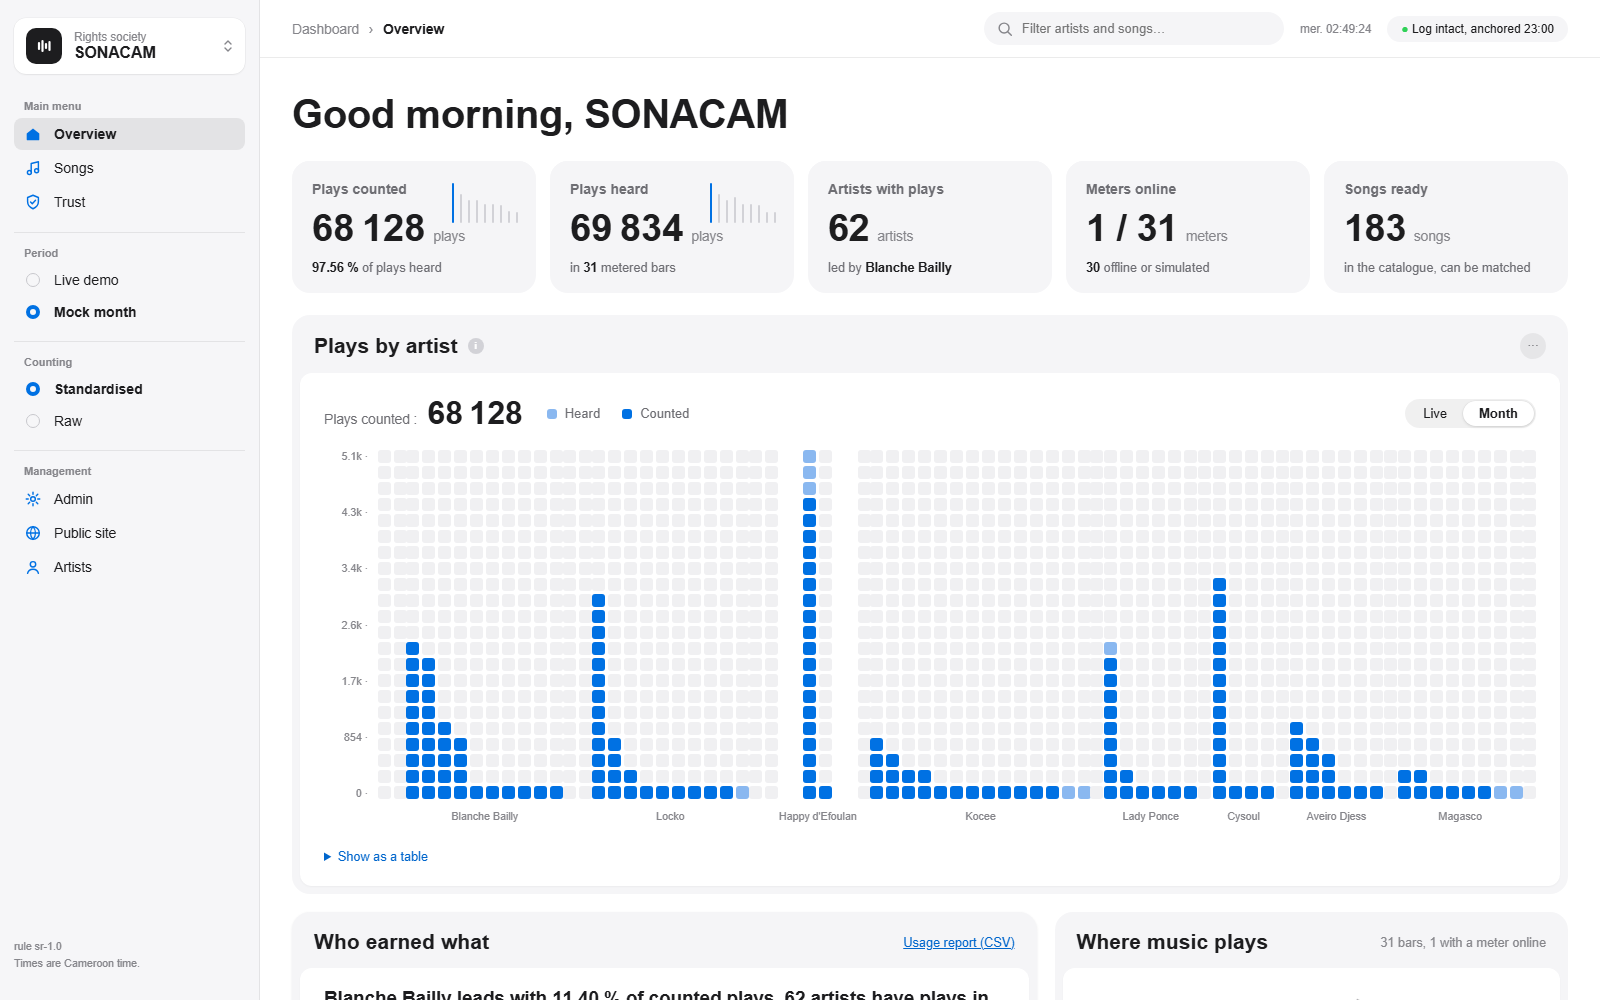
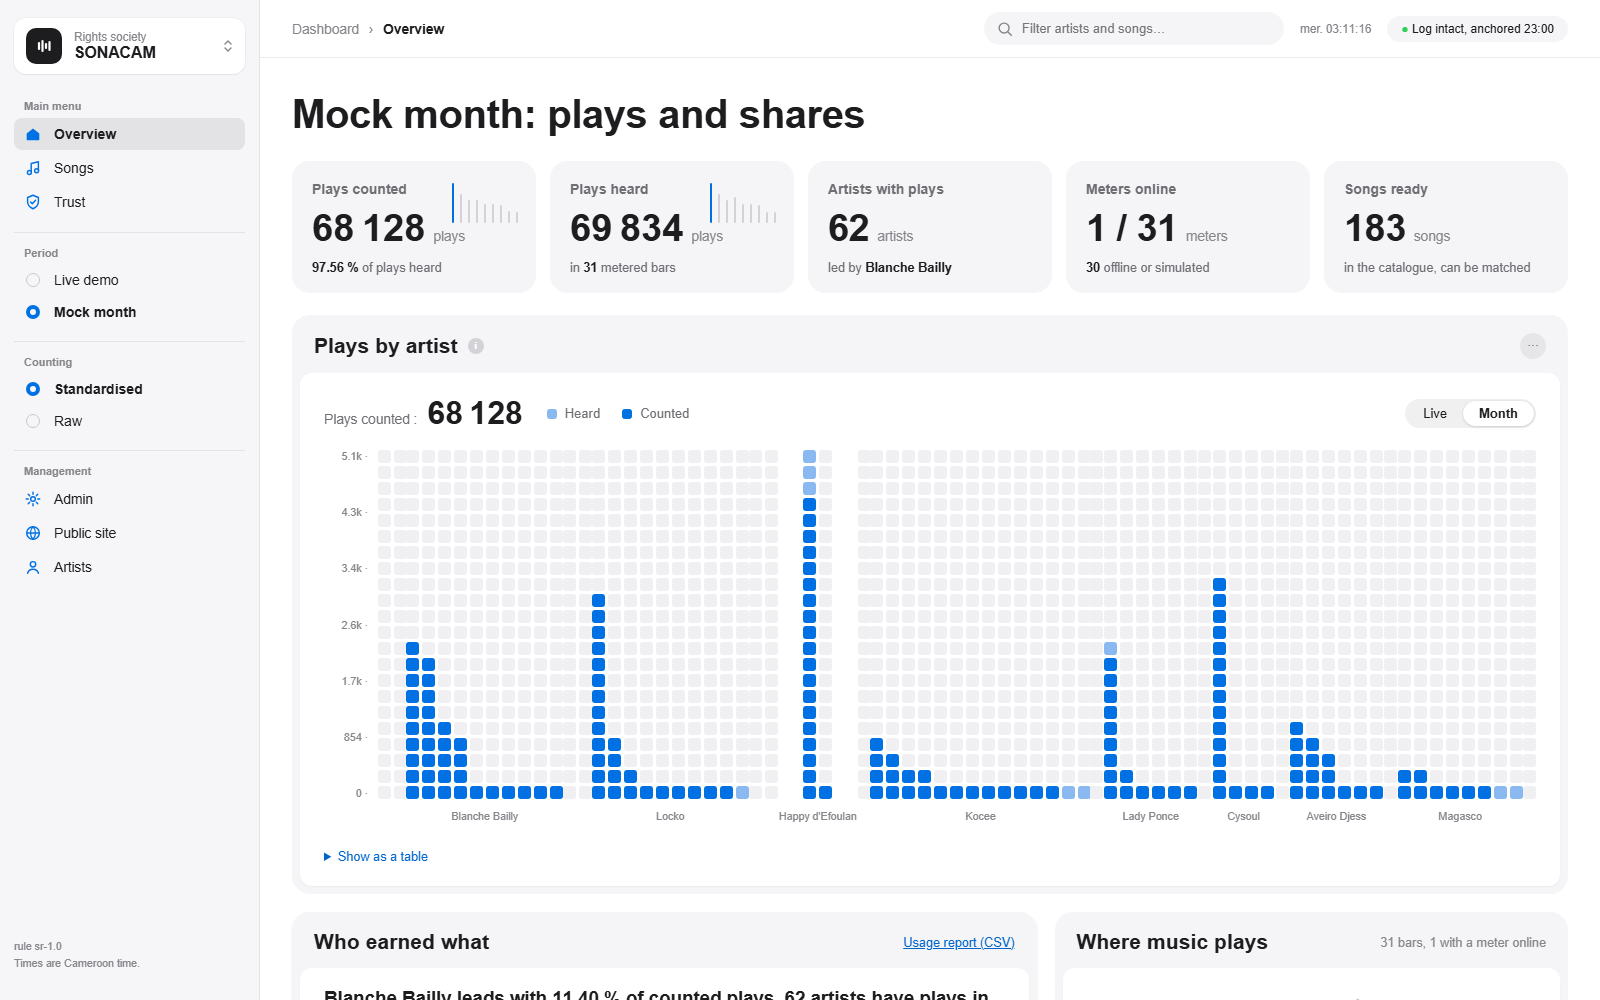
[B-WEB] Dashboard title follows the period instead of a greeting; duplicate Numbers link removed; hero screenshot retaken (R-026)

Changed region(s): [[0.1875, 0.093, 0.5312, 0.155]]

diff --git a/web/js/app.js b/web/js/app.js
@@ -32,10 +32,9 @@ function renderKpis(o) {
   foot("kf-meters", `<b>${fmtInt(o.meters_total - o.meters_online)}</b> offline or simulated`);
 }
 
-// Greeting and breadcrumb (dashboard layout).
+// Page title: says which period is on screen (B for Person B, 2026-11-25: plain title instead of a greeting).
 function greet() {
-  const h = +new Date().toLocaleString("en-GB", { timeZone: "Africa/Douala", hour: "2-digit", hour12: false });
-  if ($("greet")) $("greet").textContent = `${h < 12 ? "Good morning" : h < 18 ? "Good afternoon" : "Good evening"}, SONACAM`;
+  if ($("greet")) $("greet").textContent = state.period === "mock_month" ? "Mock month: plays and shares" : "Live plays and shares";
 }
 
 // Dot-matrix chart: one group of square columns per artist; light squares = plays heard, dark = plays counted.
@@ -379,6 +378,7 @@ $("ledger").addEventListener("click", () => showTab("trust"));
 document.querySelectorAll("[data-period]").forEach((b) => b.addEventListener("click", () => {
   state.period = b.dataset.period;
   setOn("period", state.period);
+  greet();
   openArtists.clear();
   loadAll();
 }));

diff --git a/web/sonacam-x7k2q9.html b/web/sonacam-x7k2q9.html
@@ -59,7 +59,7 @@
   </header>
 
   <main>
-    <h1 class="greet" id="greet">Welcome back, SONACAM</h1>
+    <h1 class="greet" id="greet">Live plays and shares</h1>
 
     <section class="kpis" aria-label="Key figures">
       <div class="kpi"><div class="kpi-in"><span>Plays counted</span><div class="kv"><b id="k-counted">–</b><em>plays</em></div><div class="spark" id="sp-counted" aria-hidden="true"></div></div><p class="kpi-foot"><i aria-hidden="true"></i><span id="kf-counted"></span></p></div>

diff --git a/web/index.html b/web/index.html
@@ -24,7 +24,6 @@
   <div class="ln-row">
     <a class="ln-title" href="#top">Fair Play</a>
     <div class="ln-links">
-      <a href="#numbers">Numbers</a>
       <a href="#live">Live</a>
       <a href="#trust">Trust</a>
       <a href="#how">How it works</a>

diff --git a/EXECUTION_PLAN_B.md b/EXECUTION_PLAN_B.md
@@ -162,3 +162,4 @@ Cut order if late: Sepolia → admin page → calibration UI → artist page pol
 | Wed 02:00 | merge A + fixes (user: fix the issues, check repo) | merged 23 A commits (886c003; REQUESTS conflict, A's R-017..020 → R-021..024); meter window clock re-anchor (A file, approved) + 2 tests; server window-lag clock_skew flag (fired live on M-07) + test; mock month scenarios on 3 fictional tracks (69 834 plays); README pages/assets; D-022; answered R-021..R-024. Admin page token header NOT done (A's web file, blocked: needs Person B's OK). test_b 316, A 235+1 skip |
 | Wed 03:30 | landing page (user: hook live + monthly data, critique) | landing aimed at SONACAM (hero, cards, FAQ), Live/Month switch with 4 computed figures each, map sized by plays (c-1.4 venues source+plays), mock bar names hidden, test artist hidden, trust note; checked in headless Chrome + Node harness; D-023, R-025. test_b 316, A 235+1 skip |
 | Wed 04:15 | web fixes (user: 1, 2, 4, 5, 9 + remove portal + artist ranking) | portal removed; artist page: full ranking (all artists, share bars, click to detail, search, period switch), 'How the share works'; detail rank of 61, bar labels, songs sorted; landing: merged catalogue tile with computed counts, hero screenshot retaken (CDP); admin page sends X-Admin-Token; songs_ready = fingerprinted only. Checked by CDP screenshots. R-026. test_b 316, A 235+1 skip |
+| Wed 04:30 | small web fixes (user) | landing: duplicate 'Numbers' link removed; dashboard greeting → period title (A's file, on A's behalf); hero screenshot retaken |

diff --git a/REQUESTS.md b/REQUESTS.md
@@ -184,4 +184,5 @@ Answer (A, time):
 - Server: `overview.songs_ready` now counts only fingerprinted songs (183, not 186 with the 3 mock test tracks).
 - Your dashboard still counts the test artist ("62 artists"); fine for SONACAM's internal view, but say if you want it hidden there too.
 Answer (A, time):
+Update (B, 2026-11-25 04:30, Person B): dashboard greeting ("Good morning, SONACAM") replaced by a plain title that follows the period ("Live plays and shares" / "Mock month: plays and shares"), in `web/js/app.js` greet() and `web/sonacam-x7k2q9.html`; landing local nav: the "Numbers" link removed (same target as "See the count"). Hero screenshot retaken.
 
